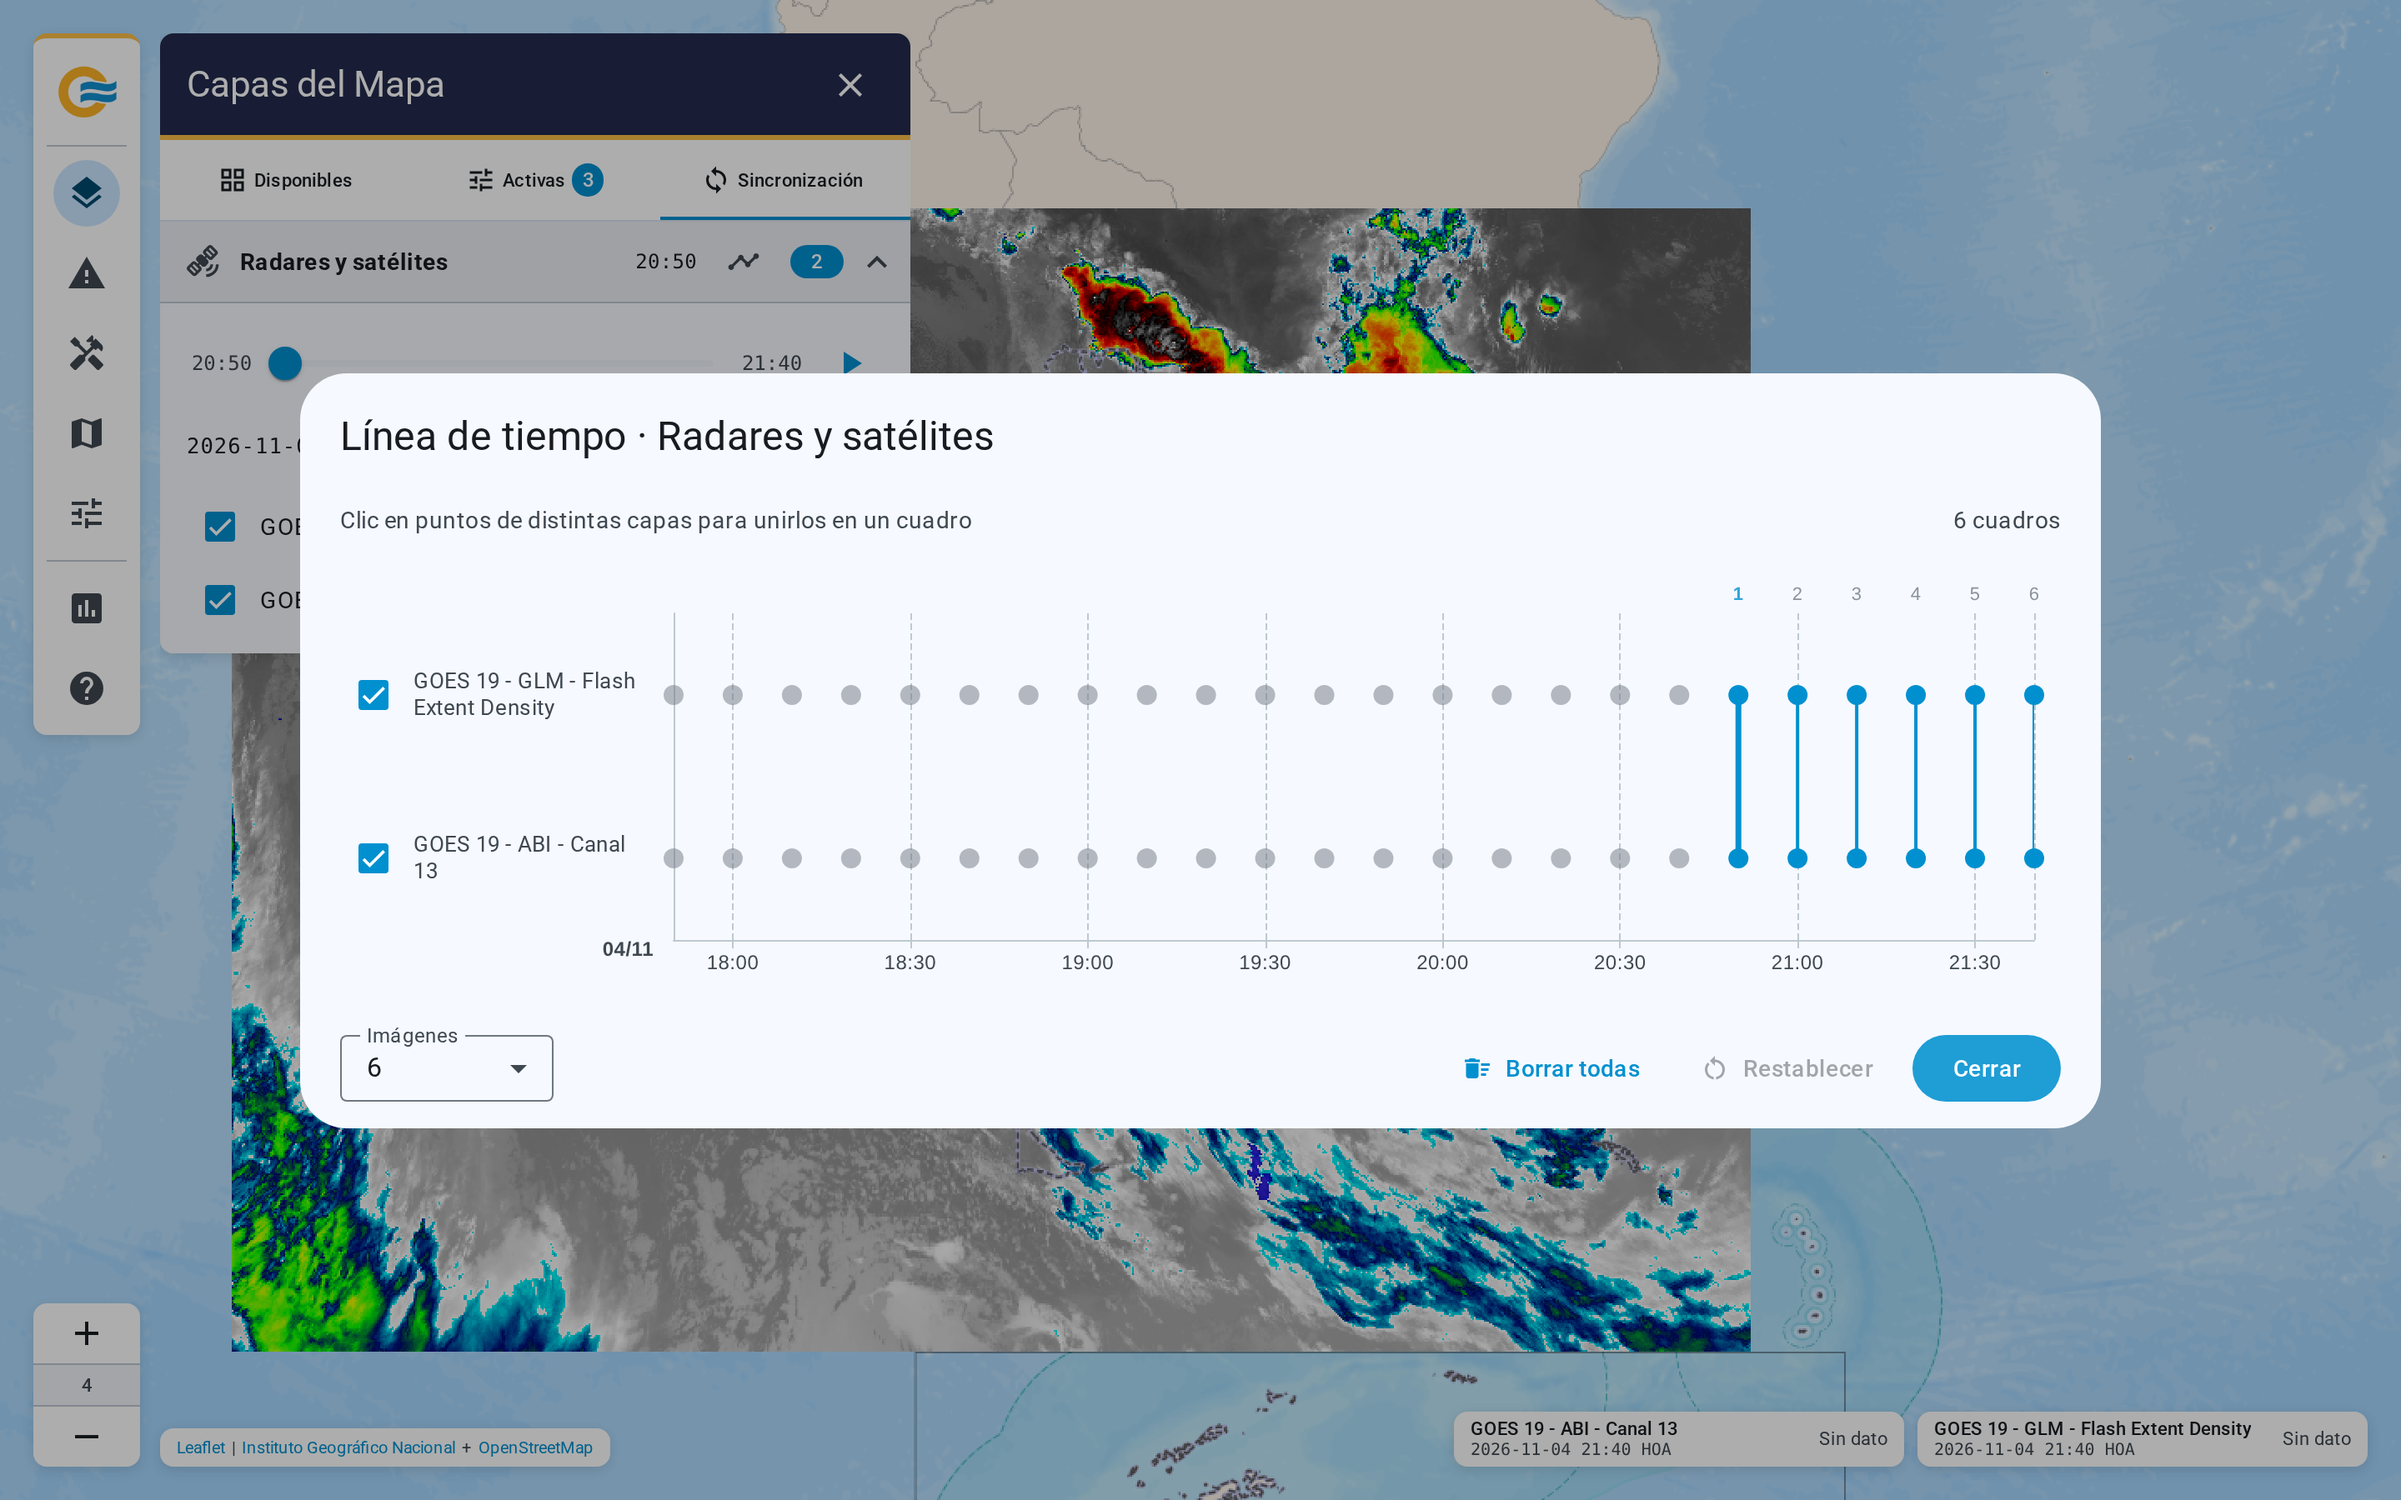
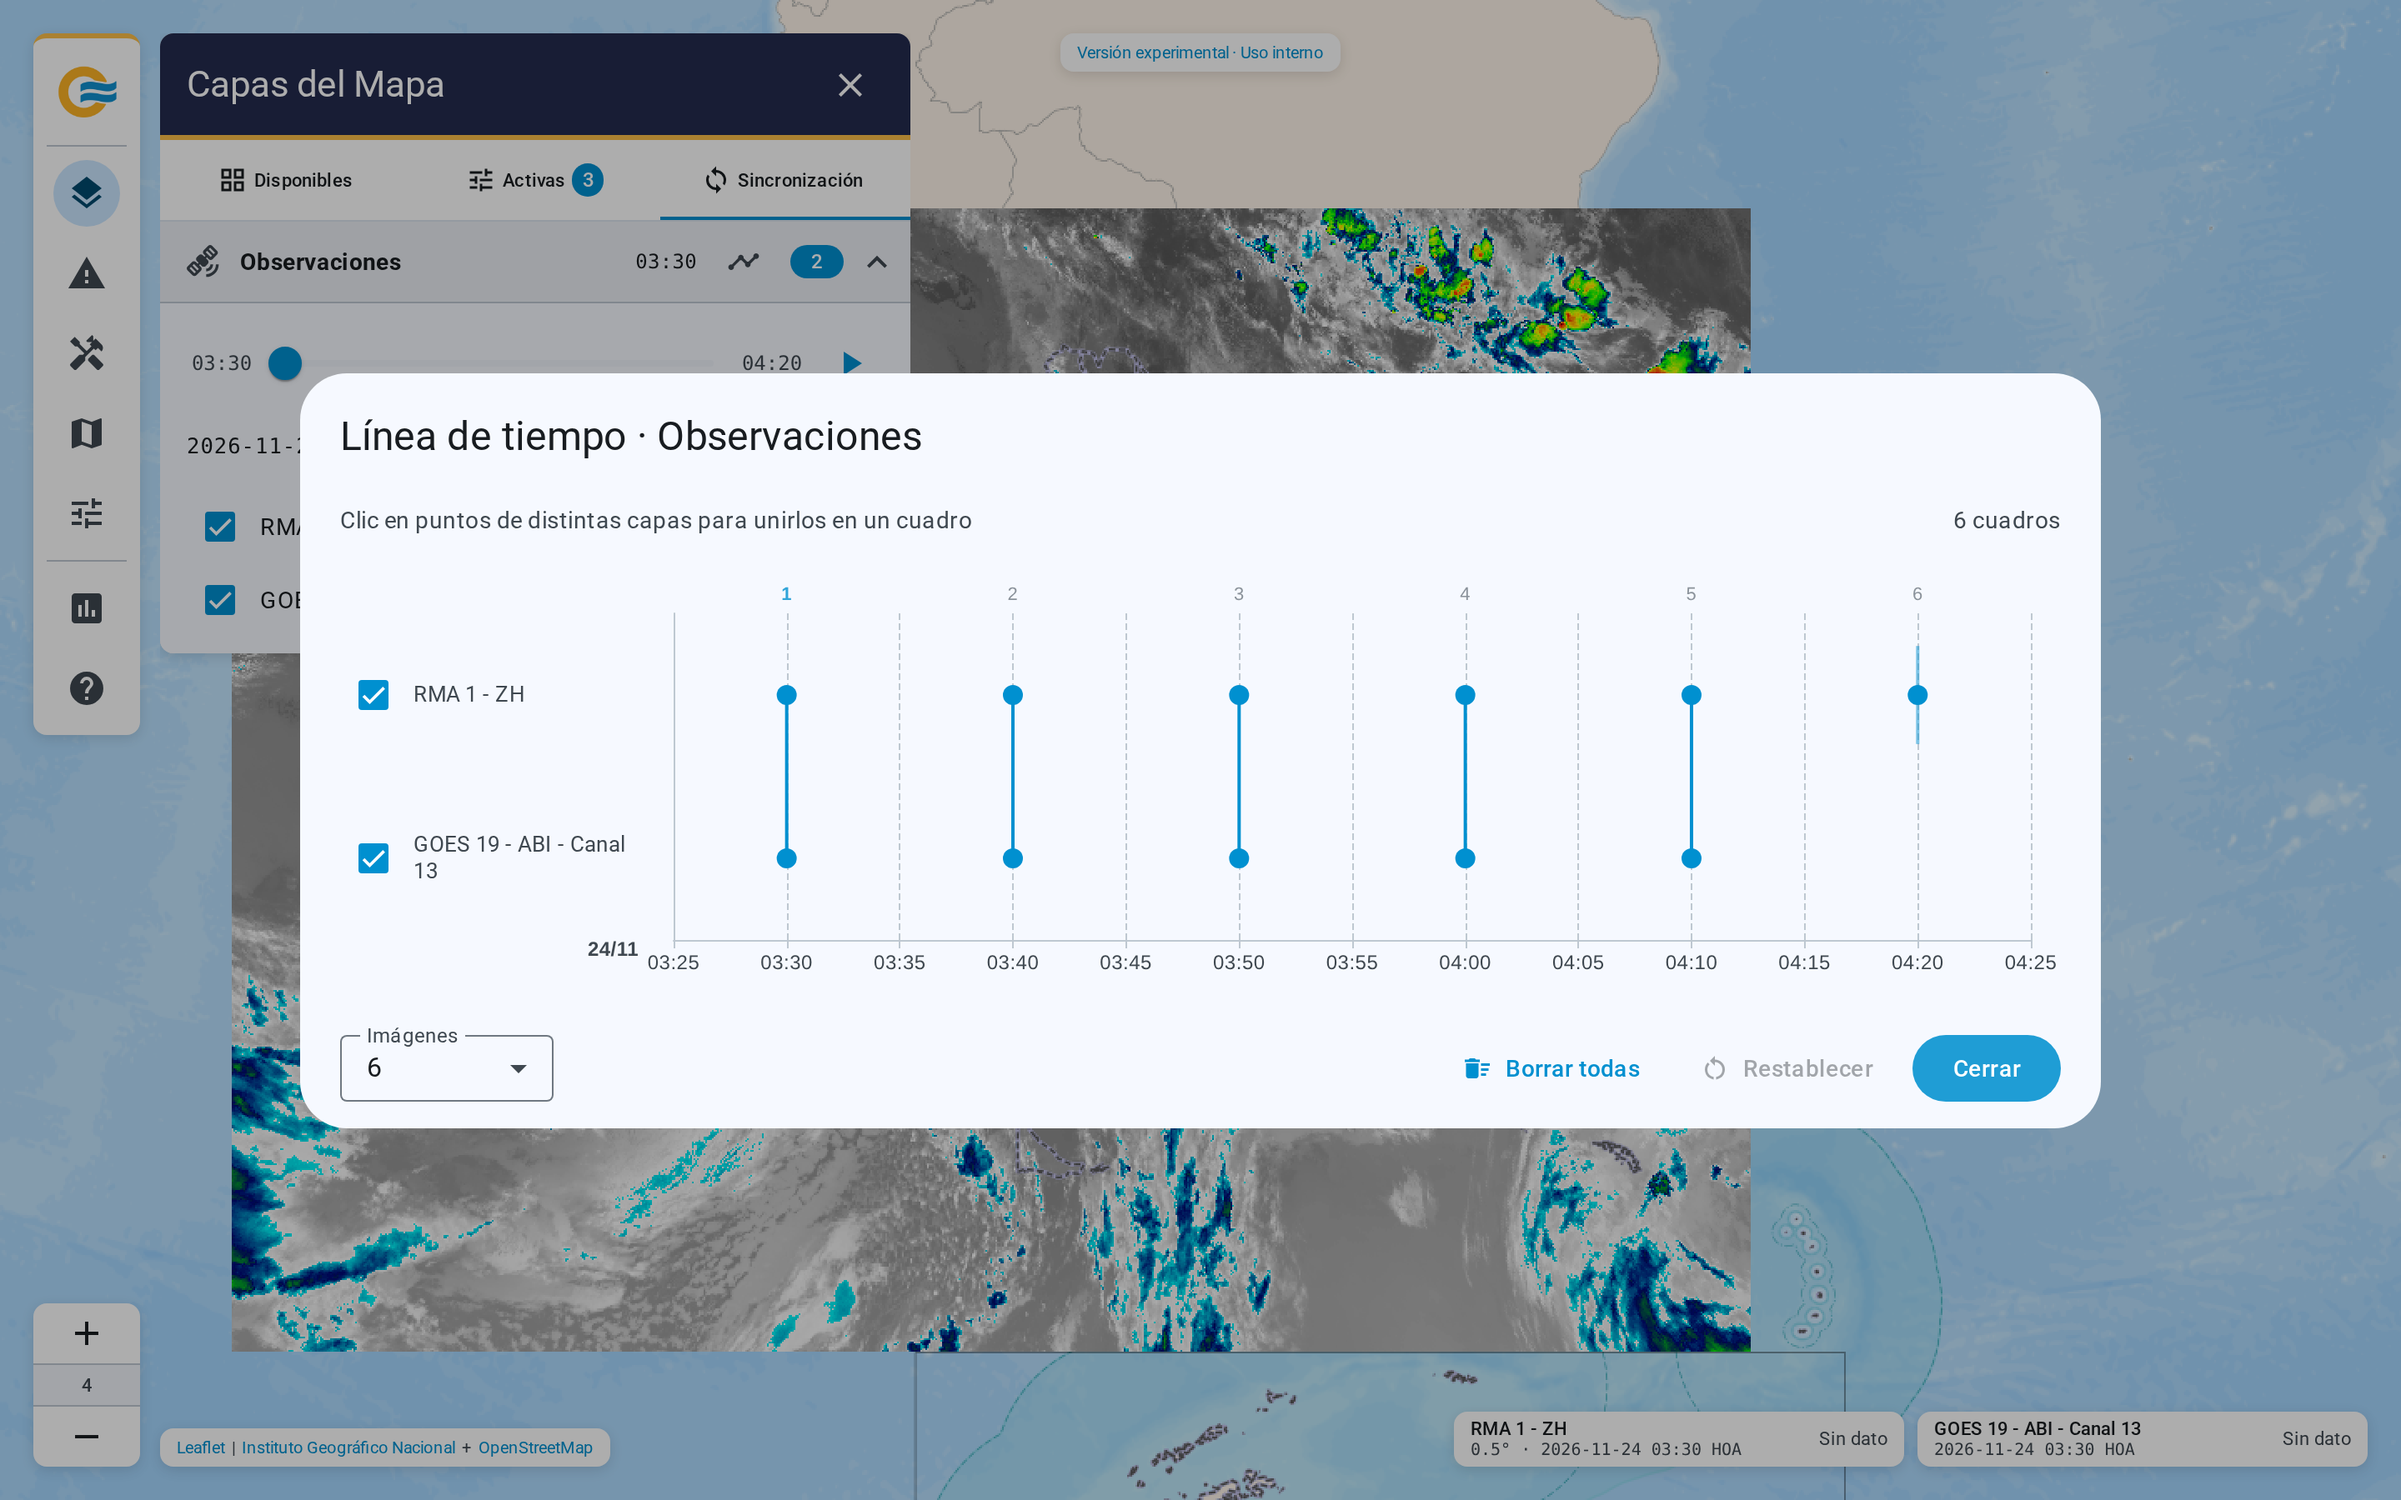
docs: recapture the window and sync shots for the new notice and sync group
The capture seed accepts the experimental notice so it doesn't cover the map,
the window shot marks the experimental tag, and the sync shots show satellite
and radar in the "Observaciones" group. A real station key can be passed as
DOCS_MEDIA_STATIONS_KEY to include the stations.

diff --git a/scripts/docs-media/shots.config.ts b/scripts/docs-media/shots.config.ts
@@ -65,6 +65,8 @@ const CH13 = 'goes19/abi/c13';
 const GLM_FED = 'goes19/glm/fed';
 const ECMWF_TP = 'ecmwf-ifs/total-precipitation';
 const GFS_MSLP = 'gfs/mean-sea-level-pressure';
+const RMA1_ZH = 'radar-sinarame/RMA1/dbzh';
+const STATIONS_TEMPERATURE = 'weather-stations/temperature';
 const PROVINCIA = 'ign-provincia';
 const DEPARTAMENTOS = 'ign-limite-interdepartamental-o-de-partido';
 
@@ -74,6 +76,17 @@ const goes = (id: string, zIndex: number, imageCount = 12, opacity = 1) => ({
   availablePeriods: [6, 12, 24],
   playback: { isPlaying: false, speed: 1, imageCount },
 });
+const radar = (id: string, zIndex: number, imageCount = 12) => ({
+  id, visible: true, opacity: 1, zIndex, type: 'tile', category: 'radar',
+  availablePeriods: [6, 12],
+  playback: { isPlaying: false, speed: 1, imageCount },
+  elevation: { selectedElevationIds: ['elev0'], elevationOpacity: {} },
+});
+const stations = (id: string, zIndex: number) => ({ id, visible: true, opacity: 1, zIndex, type: 'vector' });
+
+/** A real SMN key, when given, lets the station layers load; otherwise they stay empty. */
+const STATIONS_KEY = process.env['DOCS_MEDIA_STATIONS_KEY'];
+
 const ecmwf = (zIndex: number) => ({
   id: ECMWF_TP, visible: true, opacity: 0.85, zIndex, type: 'tile', category: 'ecmwf_tp',
   availablePeriods: [8, 16, 32, 48],
@@ -85,14 +98,18 @@ const ecmwf = (zIndex: number) => ({
   },
 });
 
-/** State every shot starts from: defaults as shipped, plus a placeholder station key so the prompt never opens. */
+/**
+ * State every shot starts from: defaults as shipped, the experimental notice already accepted,
+ * and a station key (a placeholder without DOCS_MEDIA_STATIONS_KEY) so the prompt never opens.
+ */
 const BASE: Record<string, unknown> = {
   'base-map': 'argenmap',
   'active-layers': [wms(PROVINCIA, 1)],
   'map-tools': { showCoordinates: false, showAttribution: true, showScale: false, showZoom: true, showCursorLines: false, showGraticule: false },
   'units-settings': { temperatureUnit: '°C', windSpeedUnit: 'kt', decimalPrecision: 2 },
   'timezone-settings': { mode: 'hoa' },
-  'weather-stations-api-key': { key: 'docs-capture-placeholder' },
+  'weather-stations-api-key': { key: STATIONS_KEY ?? 'docs-capture-placeholder' },
+  'experimental-disclaimer': Date.now(),
   'polygon-detail-level': '3',
   // Emitted alerts drawn by the local alerts-service would otherwise leak into
   // every shot; chapter 6 turns them back on where it needs them.
@@ -116,6 +133,14 @@ const CLIP = { width: 1280, height: 800 };
 const PANEL = '[data-testid="menu-panel"]';
 const MAP_CENTER_CLICK = { x: 900, y: 450 };
 
+/** Satellite and radar every 10', plus hourly stations when there is a key to load them. */
+const SYNC_LAYERS = [
+  wms(PROVINCIA, 1),
+  goes(CH13, 1, 12),
+  radar(RMA1_ZH, 2, 12),
+  ...(STATIONS_KEY ? [stations(STATIONS_TEMPERATURE, 1)] : []),
+];
+
 const openPanel = (id: string): Step[] => [
   { do: 'click', target: `[data-testid="sidebar-panel-${id}"]`, pauseMs: 500 },
   // Park the cursor on the panel title: the sidebar tooltip would otherwise stay
@@ -130,7 +155,7 @@ export const SHOTS: Shot[] = [
   // 2. Primeros pasos
   {
     id: '02-ventana', kind: 'shot', output: 'docs/imgs/manual/02-ventana.png', viewport: SHOT, route: '/',
-    seed: seed(), annotate: ['mat-card.button-bar', '[data-testid="map-zoom-controls"]', '[data-testid="map-attribution"]'],
+    seed: seed(), annotate: ['mat-card.button-bar', '[data-testid="map-zoom-controls"]', '[data-testid="map-attribution"]', '[data-testid="map-experimental-badge"]'],
   },
   {
     id: '02-panel-capas', kind: 'shot', output: 'docs/imgs/manual/02-panel-capas.png', viewport: SHOT, route: '/',
@@ -325,20 +350,20 @@ export const SHOTS: Shot[] = [
   },
   {
     id: '05-sincronizacion', kind: 'shot', output: 'docs/imgs/manual/05-sincronizacion.png', viewport: SHOT, route: '/',
-    seed: seed({ 'active-layers': [wms(PROVINCIA, 1), goes(CH13, 1, 12), goes(GLM_FED, 2, 12, 0.9)] }),
+    seed: seed({ 'active-layers': SYNC_LAYERS }),
     steps: [
       ...openPanel('layers'),
-      // Both GOES layers join the observations group on their own; nothing to pick.
+      // Satellite, radar and stations join the observations group on their own.
       { do: 'click', target: '[data-testid="layers-tab-sync"]', pauseMs: 1500 },
     ],
     waitFor: '[data-testid="layers-tab-sync"]', clip: PANEL,
   },
   {
     id: '05-sincronizacion-linea', kind: 'shot', output: 'docs/imgs/manual/05-sincronizacion-linea.png', viewport: SHOT, route: '/',
-    seed: seed({ 'active-layers': [wms(PROVINCIA, 1), goes(CH13, 1, 12), goes(GLM_FED, 2, 12, 0.9)] }),
+    seed: seed({ 'active-layers': SYNC_LAYERS }),
     steps: [
       ...openPanel('layers'),
-      // Both GOES layers join the observations group on their own; nothing to pick.
+      // Satellite, radar and stations join the observations group on their own.
       { do: 'click', target: '[data-testid="layers-tab-sync"]', pauseMs: 1500 },
       { do: 'click', target: '[data-testid="layers-sync-timeline"]', pauseMs: 2000 },
     ],

diff --git a/scripts/docs-media/README.md b/scripts/docs-media/README.md
@@ -49,12 +49,14 @@ el servidor de desarrollo con estas variables (cambiables por entorno):
 | `DATA_SERVICE_BASE_URL` | `https://data.mapasmn.com` | Imágenes reales sin levantar el stack completo |
 | `ALERTS_SERVICE_BASE_URL` | `http://localhost:6007` | **Generar un aviso escribe en MySQL.** El clip que lo hace se salta solo si esta URL no es local |
 | `METRICS_SERVICE_BASE_URL` | `http://localhost:6020` | La pestaña Procesamiento del panel de estado |
+| `DOCS_MEDIA_STATIONS_KEY` | (sin definir) | Clave real de estaciones del SMN; sin ella las capas de estaciones no cargan |
 
 Registro de qué usó cada corrida versionada:
 
 | Fecha | data-service | alerts-service | metrics-api | Notas |
 |---|---|---|---|---|
 | 2026-09-08 | `https://data.mapasmn.com` | `http://localhost:6007` (stack local, `make up` en alerts-service) | `http://localhost:6020` (stack local) | Radar y WRF sin datos en ningún backend; estaciones sin clave real del SMN; ver los `blocked` del manifiesto |
+| 2026-11-24 | `https://data.mapasmn.com` | — | — | Sólo `02-ventana` y `05-sincronizacion*`, contra el servidor de desarrollo (`DOCS_MEDIA_BASE_URL`); RMA1 ya publica; estaciones sin `DOCS_MEDIA_STATIONS_KEY` |
 
 ## Cuando una captura se rompe
 

diff --git a/docs/manual/primeros-pasos.md b/docs/manual/primeros-pasos.md
@@ -13,7 +13,8 @@ acceso a las capas, las herramientas, los avisos y la configuración.
 ![La ventana al abrir la aplicación por primera vez](../imgs/manual/02-ventana.png){ .doc-figure loading=lazy }
 
 En la captura, el número 1 identifica la barra lateral, el 2 los controles de
-zoom y el 3 la atribución del mapa base.
+zoom, el 3 la atribución del mapa base y el 4 la etiqueta de versión
+experimental.
 
 Al entrar, la aplicación muestra un aviso: el visualizador es un desarrollo
 experimental en fase de prueba y no está abierto al público. El aviso se cierra
